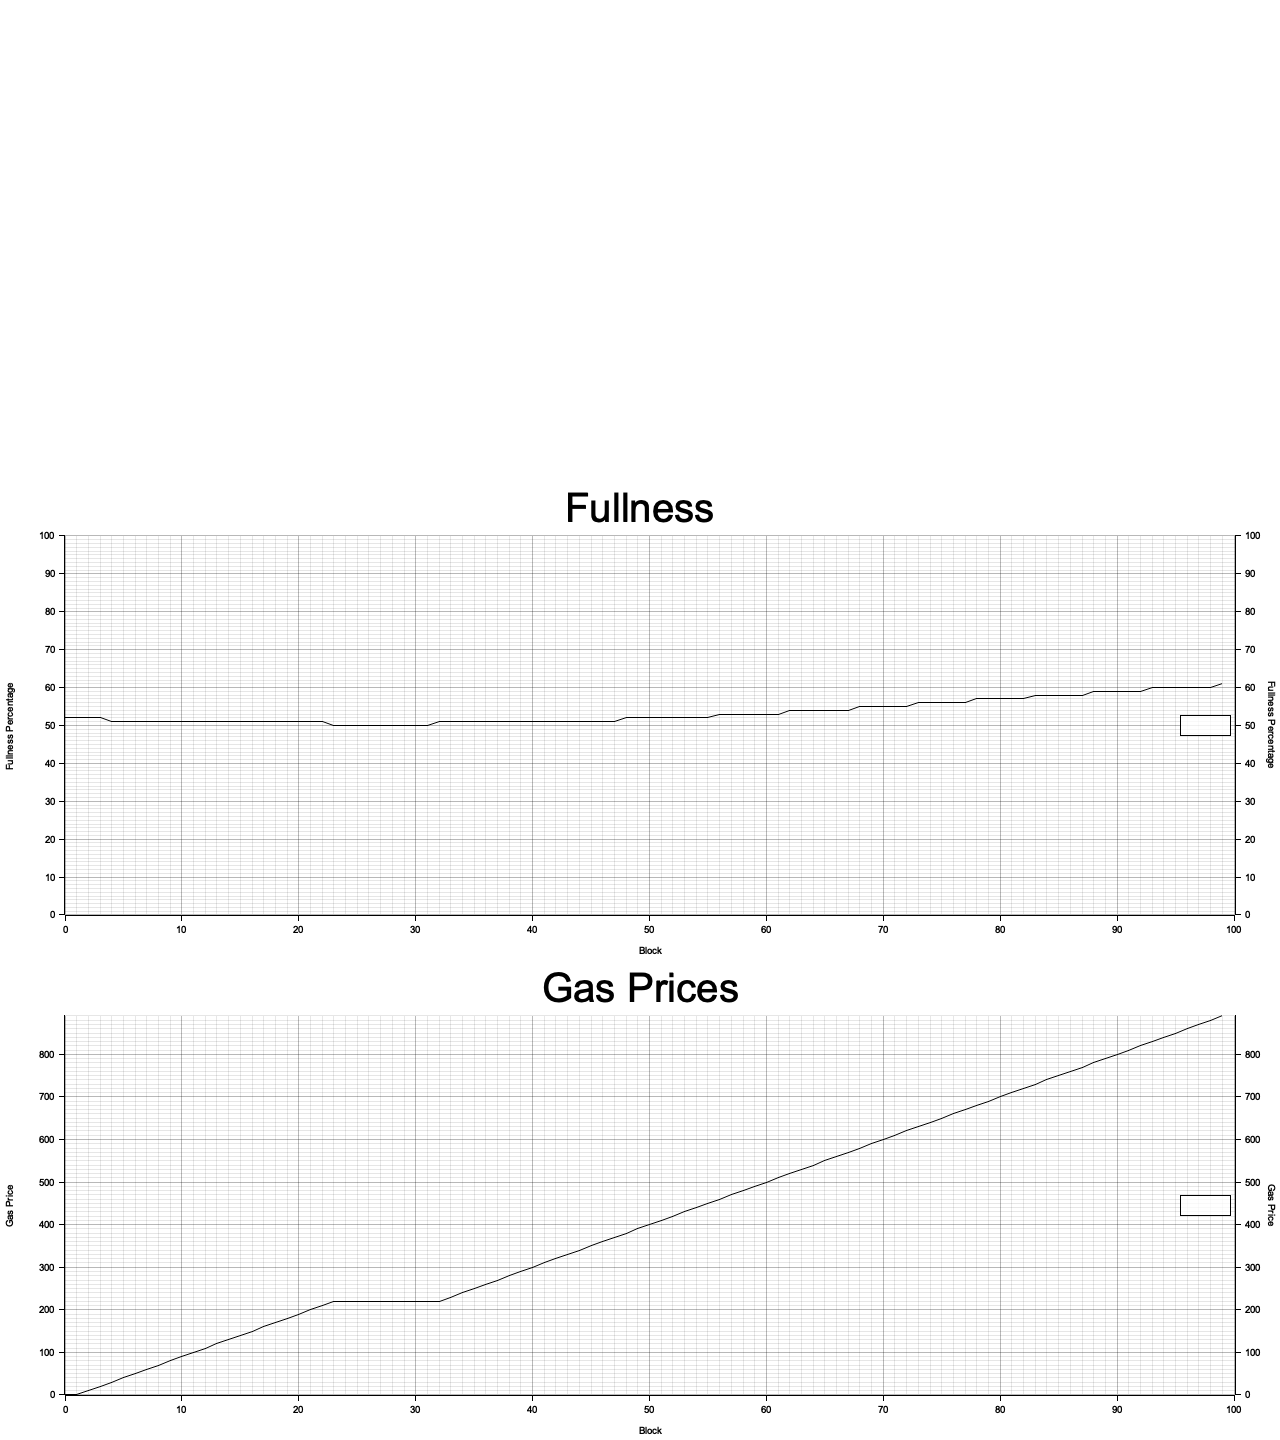
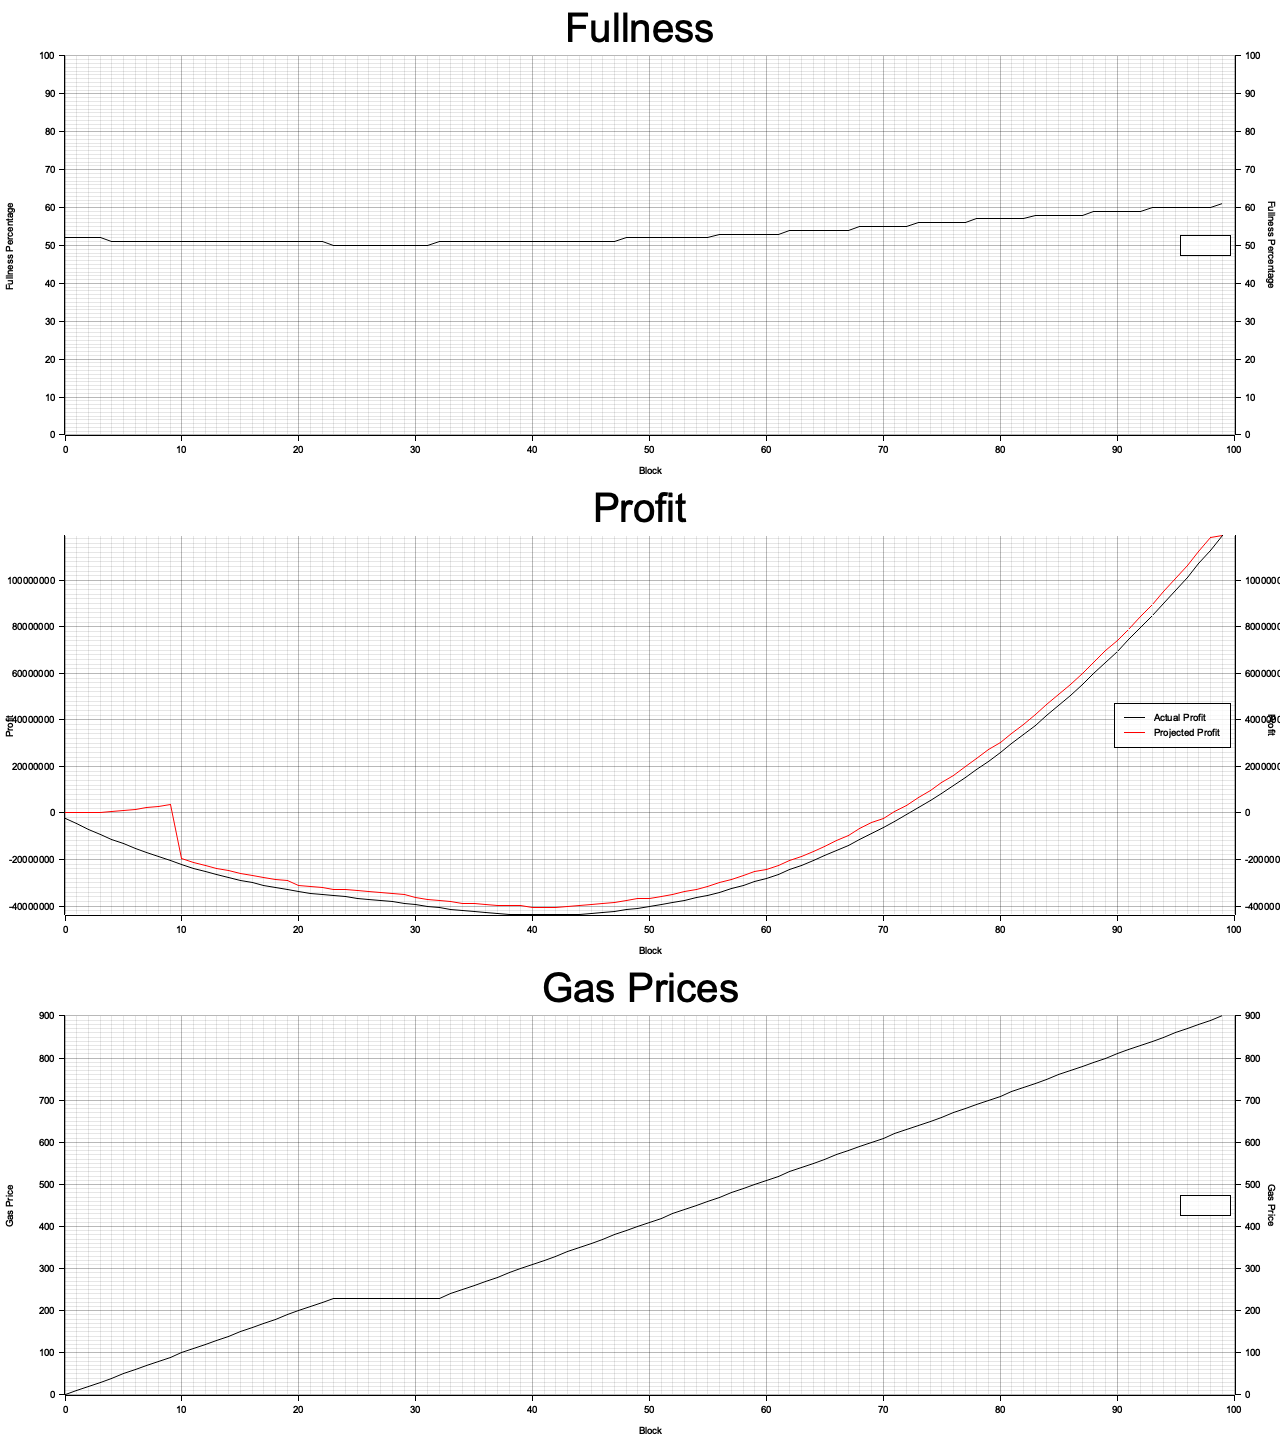
Add profit stuff to chart, add rewards

Changed region(s): [[0.0, 0.0, 1.0, 0.6562], [0.0312, 0.7188, 0.9688, 0.9688]]

diff --git a/crates/gas-price-algorithm/src/main.rs b/crates/gas-price-algorithm/src/main.rs
@@ -206,6 +206,7 @@ fn main() {
         l2_block_height: 0,
         l2_block_fullness_threshold_percent: fullness_threshold,
         exec_gas_price_increase_amount,
+        total_rewards: 0,
         da_recorded_block_height: 0,
         latest_da_cost_per_byte: 0,
         projected_total_cost: 0,
@@ -214,11 +215,22 @@ fn main() {
     };
 
     let mut gas_prices = vec![];
-    for (height, (l2_block, da_block)) in blocks {
+    let mut actual_rewards = vec![];
+    let mut projected_costs = vec![];
+    let mut actual_costs = vec![];
+    for (index, (l2_block, da_block)) in blocks {
+        let height = index as u32 + 1;
         gas_prices.push(updater.gas_price());
+        actual_rewards.push(updater.total_rewards);
+        projected_costs.push(updater.projected_total_cost);
         let (fullness, bytes) = l2_block;
-        updater.update_l2_block_data(height as u32, (*fullness, capacity), *bytes);
+        updater.update_l2_block_data(height, (*fullness, capacity), *bytes).unwrap();
         if let Some(da_blocks) = da_block {
+            let mut total_costs = updater.latest_known_total_cost;
+            for block in da_blocks {
+                total_costs += block.block_cost;
+                actual_costs.push(total_costs);
+            }
             updater.update_da_record_data(da_blocks.to_owned()).unwrap();
         }
     }
@@ -237,6 +249,14 @@ fn main() {
 
     let fullness = fullness_and_bytes.iter().map(|(fullness, _)| (*fullness, capacity)).collect();
     draw_fullness(&upper, &fullness, "Fullness");
+
+    let actual_profit = actual_costs.iter().zip(actual_rewards.iter()).map(|(cost, reward)| {
+        *reward as i64 - *cost as i64
+    }).collect();
+    let projected_profit = projected_costs.iter().zip(actual_rewards.iter()).map(|(cost, reward)| {
+        *reward as i64 - *cost as i64
+    }).collect();
+    draw_profit(&middle, &actual_profit, &projected_profit, "Profit");
     draw_gas_price(&bottom, &gas_prices, "Gas Prices");
 
     // draw_da_chart(
@@ -643,6 +663,57 @@ fn draw_fullness(
             &BLACK,
         ))
         .unwrap();
+
+    chart
+        .configure_series_labels()
+        .background_style(&WHITE.mix(0.8))
+        .border_style(&BLACK)
+        .draw()
+        .unwrap();
+}
+
+fn draw_profit(
+    drawing_area: &DrawingArea<BitMapBackend, Shift>,
+    actual_profit: &Vec<i64>,
+    projected_profit: &Vec<i64>,
+    title: &str,
+) {
+    let min = *actual_profit.iter().min().unwrap();
+    let max = *actual_profit.iter().max().unwrap();
+
+    let mut chart = ChartBuilder::on(drawing_area)
+        .caption(title, ("sans-serif", 50).into_font())
+        .margin(5)
+        .x_label_area_size(40)
+        .y_label_area_size(60)
+        .right_y_label_area_size(40)
+        .build_cartesian_2d(0..actual_profit.len(), min..max)
+        .unwrap();
+
+    chart
+        .configure_mesh()
+        .y_desc("Profit")
+        .x_desc("Block")
+        .draw()
+        .unwrap();
+
+    chart
+        .draw_series(LineSeries::new(
+            actual_profit.iter().enumerate().map(|(x, y)| (x, *y)),
+            &BLACK,
+        ))
+        .unwrap()
+        .label("Actual Profit")
+        .legend(|(x, y)| PathElement::new(vec![(x, y), (x + 20, y)], &BLACK));
+
+    chart
+        .draw_series(LineSeries::new(
+            projected_profit.iter().enumerate().map(|(x, y)| (x, *y)),
+            &RED,
+        ))
+        .unwrap()
+        .label("Projected Profit")
+        .legend(|(x, y)| PathElement::new(vec![(x, y), (x + 20, y)], &RED));
 
     chart
         .configure_series_labels()

diff --git a/crates/gas-price-algorithm/src/tests.rs b/crates/gas-price-algorithm/src/tests.rs
@@ -6,6 +6,7 @@ struct UpdaterBuilder {
     l2_block_height: u32,
     l2_block_capacity_threshold: u64,
     l2_comp_gas_price_increase_amount: u64,
+    total_rewards: u64,
     da_recorded_block_height: u32,
     da_cost_per_byte: u64,
     project_total_cost: u64,
@@ -20,6 +21,7 @@ impl UpdaterBuilder {
             l2_block_height: 0,
             l2_block_capacity_threshold: 50,
             l2_comp_gas_price_increase_amount: 0,
+            total_rewards: 0,
             da_recorded_block_height: 0,
             da_cost_per_byte: 0,
             project_total_cost: 0,
@@ -80,6 +82,7 @@ impl UpdaterBuilder {
             l2_block_height: self.l2_block_height,
             l2_block_fullness_threshold_percent: self.l2_block_capacity_threshold,
             exec_gas_price_increase_amount: self.l2_comp_gas_price_increase_amount,
+            total_rewards: self.total_rewards,
             da_recorded_block_height: self.da_recorded_block_height,
             latest_da_cost_per_byte: self.da_cost_per_byte,
             projected_total_cost: self.project_total_cost,

diff --git a/crates/gas-price-algorithm/src/lib.rs b/crates/gas-price-algorithm/src/lib.rs
@@ -57,6 +57,7 @@ pub struct AlgorithmUpdaterV1 {
     pub l2_block_height: u32,
     pub l2_block_fullness_threshold_percent: u64,
     pub exec_gas_price_increase_amount: u64,
+    pub total_rewards: u64,
     // total_reward: u64,
     // actual_total_cost: u64,
     // latest_gas_per_byte: u64,
@@ -114,6 +115,8 @@ impl AlgorithmUpdaterV1 {
         } else {
             self.l2_block_height = height;
             self.projected_total_cost += block_bytes * self.latest_da_cost_per_byte;
+            let reward = fullness.0 * self.gas_price;
+            self.total_rewards += reward;
             let fullness_percent = fullness.0 * 100 / fullness.1;
             if fullness_percent > self.l2_block_fullness_threshold_percent {
                 self.gas_price += self.exec_gas_price_increase_amount;

diff --git a/crates/gas-price-algorithm/src/tests/update_l2_block_Data_tests.rs b/crates/gas-price-algorithm/src/tests/update_l2_block_Data_tests.rs
@@ -116,3 +116,25 @@ fn update_l2_block_data__if_below_capacity_threshold_decrease_price() {
     let actual = updater.gas_price();
     assert_eq!(actual, expected);
 }
+
+#[test]
+fn update_l2_block_data__updates_the_total_reward_value() {
+    // given
+    let starting_gas_price = 100;
+    let mut updater = UpdaterBuilder::new()
+        .with_starting_gas_price(starting_gas_price)
+        .build();
+
+    let height = 1;
+    let gas_used = 50;
+    let fullness = (gas_used, 100);
+    let block_bytes = 1000;
+
+    // when
+    updater.update_l2_block_data(height, fullness, block_bytes).unwrap();
+
+    // then
+    let expected = gas_used * starting_gas_price;
+    let actual = updater.total_rewards;
+    assert_eq!(actual, expected);
+}
